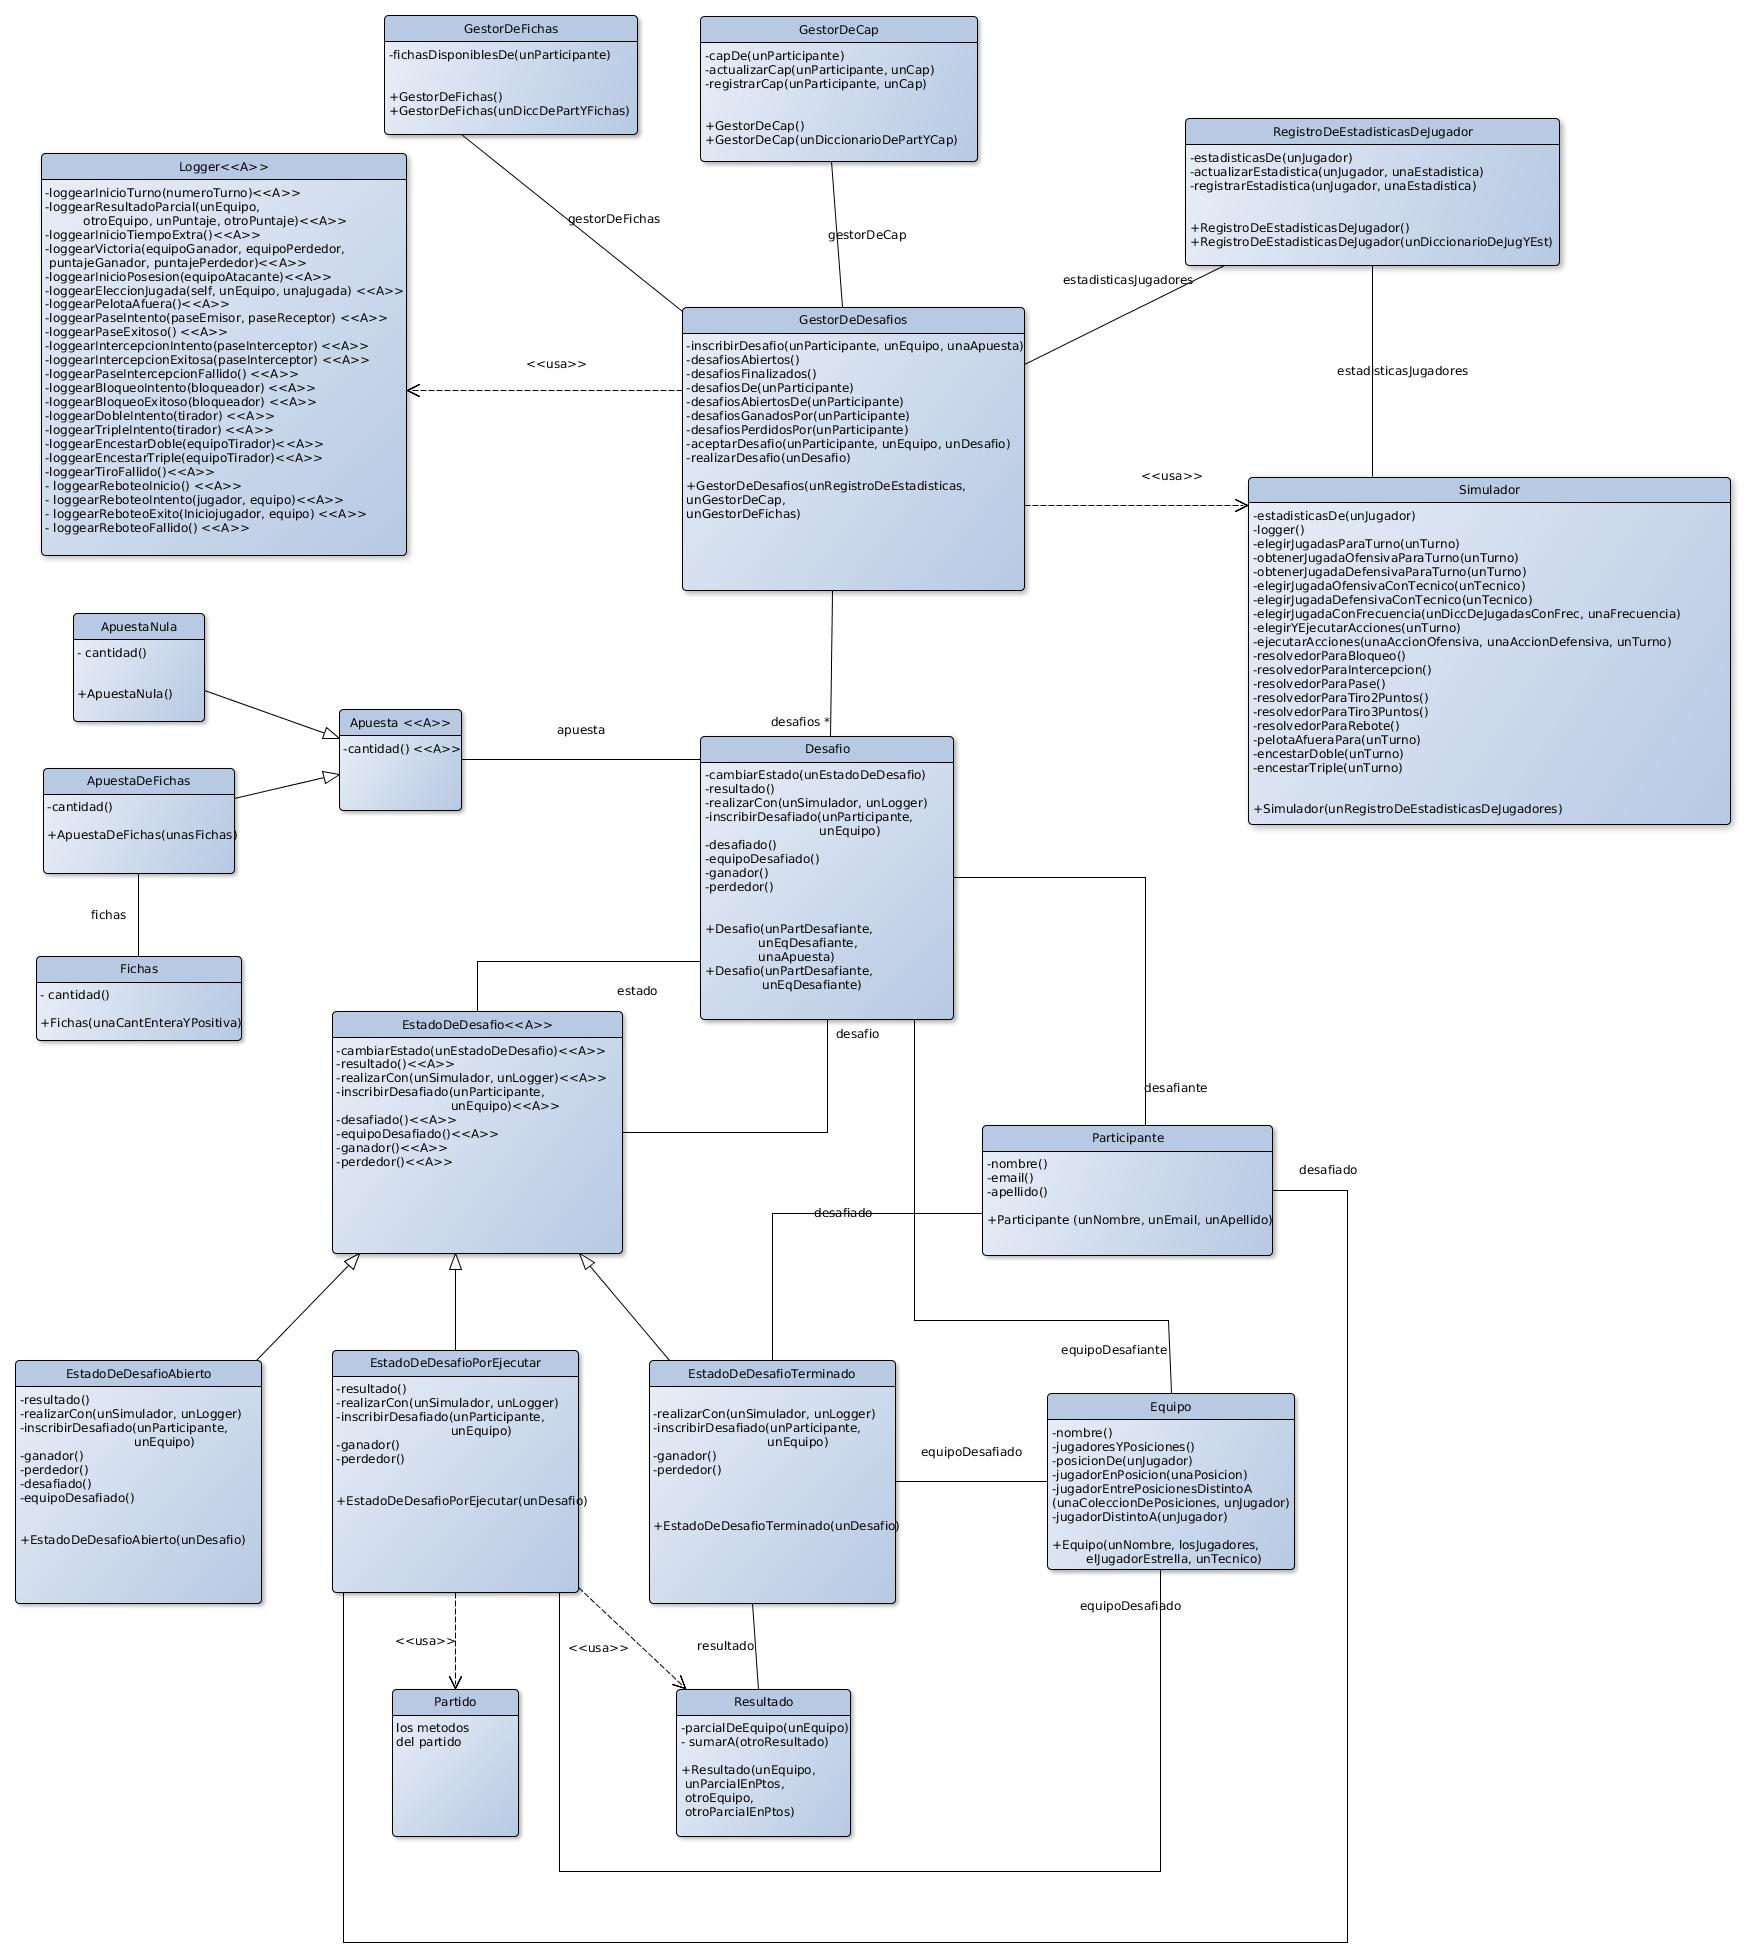
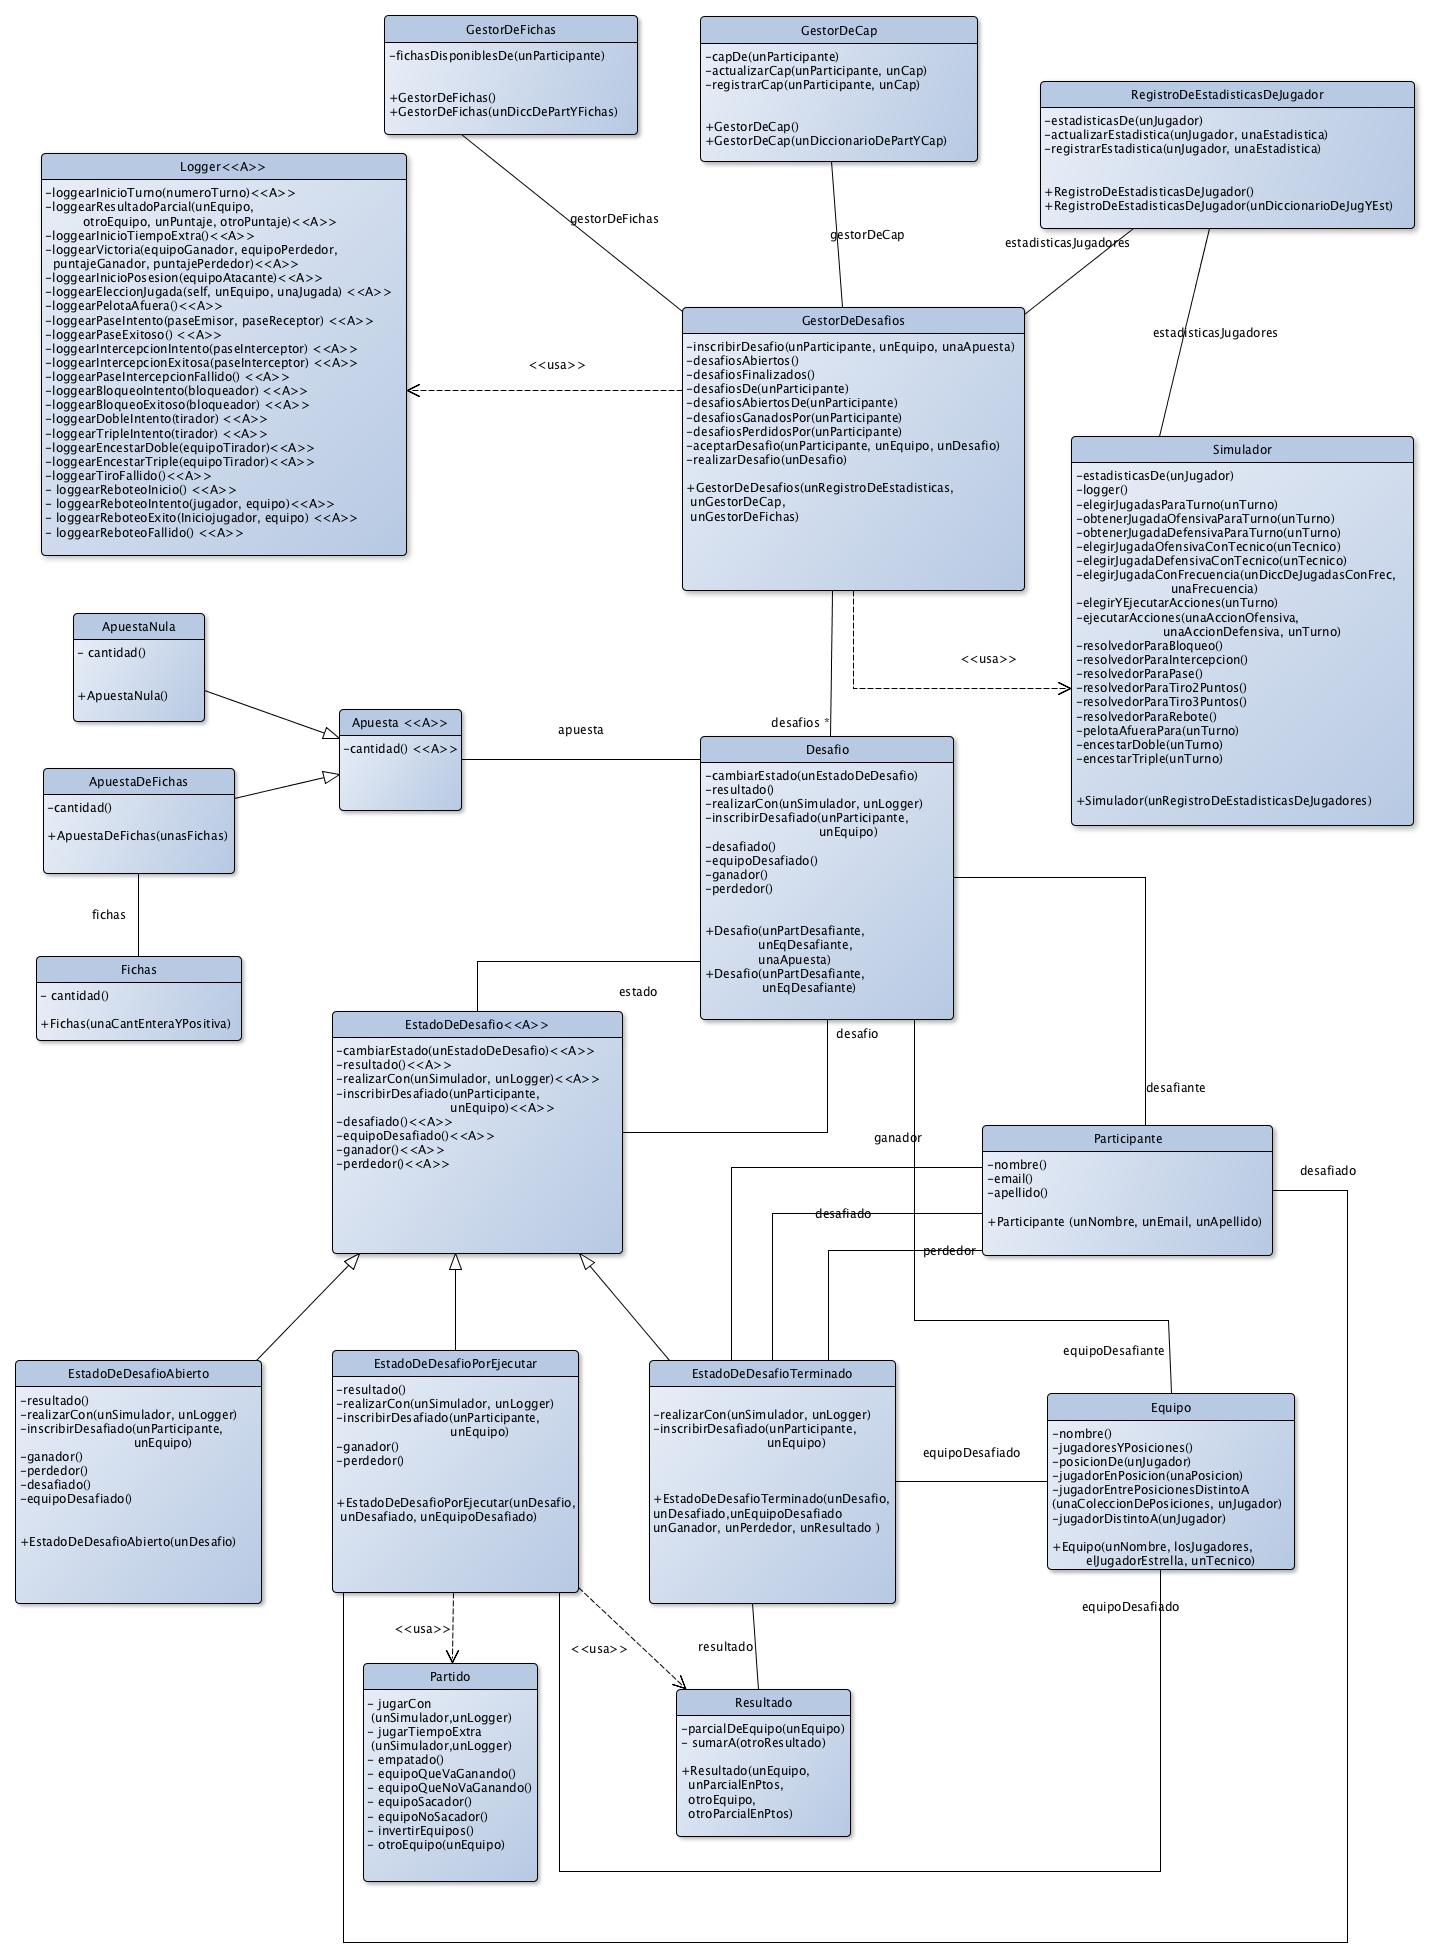
gestion de desafios

diff --git a/tp1/informe/gestionDeDesafios.tex b/tp1/informe/gestionDeDesafios.tex
@@ -1,0 +1,20 @@
+De la misma manera en que definimos que un participante no conoce si su cap ni sus fichas disponibles, definimos que un jugador no conozca esencialmente los desafíos de los que formó parte.\\
+Modelamos entonces una clase GestorDeDesafíos, cuyas instancias no sólo saben los desafíos de un participante, sino que también es se encargan de crear desafíos y de generar el contexto para que se simule un partido de un desafío. Es por esta razón que la clase Gestor de Desafíos usa a la clase Simulador y a la clase Logger.
+A su vez, dado que debe indicar las estadísticas de los jugadores para la simuación, conoce al RegistroDeEstadísticas. Dado que debe validar que el participante puede apostar la cantidad de fichas indicadas y además debe actualizar las fichas disponibles de un participante, conoce al GestorDeFichas. Finalmente, como el cap de un participante se puede modificar por el resultado de un desafío, el GestorDeDesafíos conoce al GestorDeCap.\\
+
+Un desafío está representado por la clase Desafío y está compuesto por una apuesta, un EstadoDeDesafío, un participante desafiante y un equipo desafiante.\\
+La idea de que un desafío posea un estado representa el hecho de que un desafío puede estar abierto, esperando a ser ejecutado o terminado. Esto se modela a través de la jerarquía de clases EstadoDeDesafio.\\
+Aprovechando la existencia de un estado, hicimos uso del patrón de diseño State, proveeyendo un protocolo en común entre un desafío y su estado. De esta forma, podemos modificar el comportamiento del desafío en runtime y, por ejemplo, modelar que no se puede simular un desafío abierto, ni se le puede pedir un resultado a un desafío en ejecución. El estado conoce al desafío al que conoce, de manera tal de poder enviarle el mensaje para cambiar de estado.\\
+El estado EstadoDeDesafioAbierto, solo responde al mensaje incribirDesafiado(unParticipante, unEquipo), a partir del cual instancia el EstadoDeDesafioEnEjecucion como corresponde con los datos del desafiado y le envía el mensaje para cambiar de estado al desafío con el nuevo estado instanciado. Para todos lo demás mensajes lanza una excepción.
+Análogamente, el EstadoDeDesafioEnEjecucion responder al mensaje realizarCon(unSimulador, unLogger) a partir del cual instancia un Partido y ejecuta la simulación. Finalmente, con los datos que poseía más el resultado del Partido, instancia un EstadoDeDesafioTerminado y le envía el mensaje de cambiar de estado al desafío a EstadoDeDesafioTerminado. Además responder a los mensajes desafiado() y equipoDesafiado(). Para todos los demás mensajes lanza una excepción.
+Finalmente el EstadoDeDesafíoTerminado responde solamente a los mensajes ganador(), perdedor(), resultado(), desafiante(), equipoDesafiante() y para todos los demás mensajes lanza una excepción.
+
+A través del GestorDeDesafíos se puede lanzar un desafío a través del mensaje incribirDesafío(unParticipante, unEquipo, unaApuesta). El GestorDeDesafíos, al recibir este mensaje, valida que la apuesta pueda realizarse para el participante y que el equipo pertenezca al participante desafiante. Luego, genera una nueva instancia de Desafío con el participante como desafiante, el equipo como equipo desafiante y la apuesta como la apuesta y con EstadoDeDesafíoAbierto.\\
+Análogamente, mediante el mensaje aceptarDesafio(unParticipante, unEquipo, unDesafio) busca el desafío en cuestión, valida que el participante pueda realizar la apuesta y que el equipo perteneza al participante y luego le envía al desafío el mensaje incribirDesafiado(unParticipante, unEquipo) que lo reenviará a su estado.\\
+Finalmente, mediante el la recepción del mensaje realizarDesafio(unDesafio), el GestorDeDesafios busca el desafío.Si lo encuenta, instancia un Simulador y un Logger y le envía al desafío el mensaje realizarCon(unSimulador, unLogger), que será reenviado a su estado.\\
+
+El GestorDeDesafios además responde a los mensajes desafiosAbiertos(), desafiosFinalizados(), desafiosDe(unParticipante), desafiosAbiertosDe(unParticipante), desafiosGanadosPor(unParticipante), desafiosPerdidosPor(unParticipante), que no hacen más que filtrar los desafíos que se corresponden con los parámetros de búsqueda y los devuelve en una colección.\\
+
+\begin{center}
+\includegraphics[scale=0.35]{diseno/gestionDeDesafios.jpg}
+\end{center}
